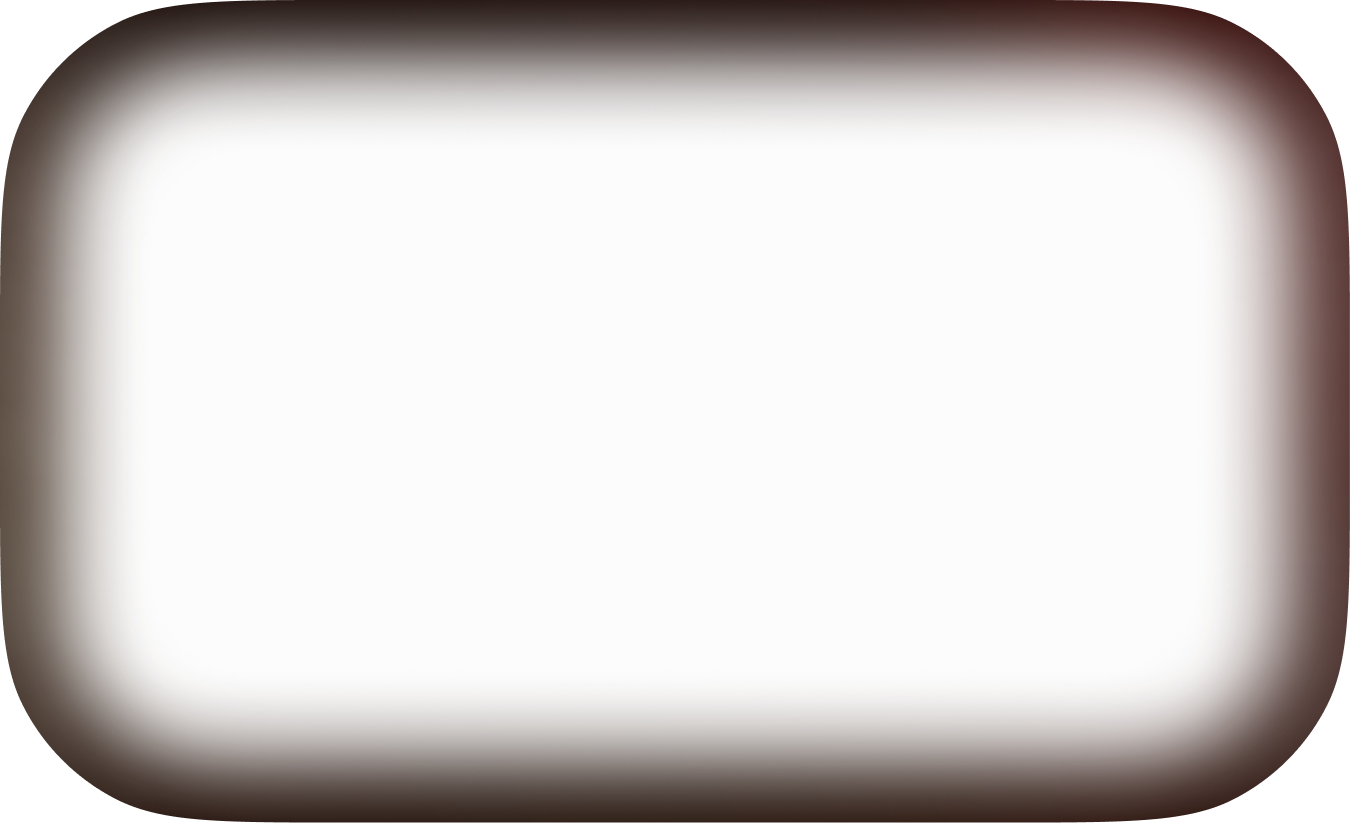
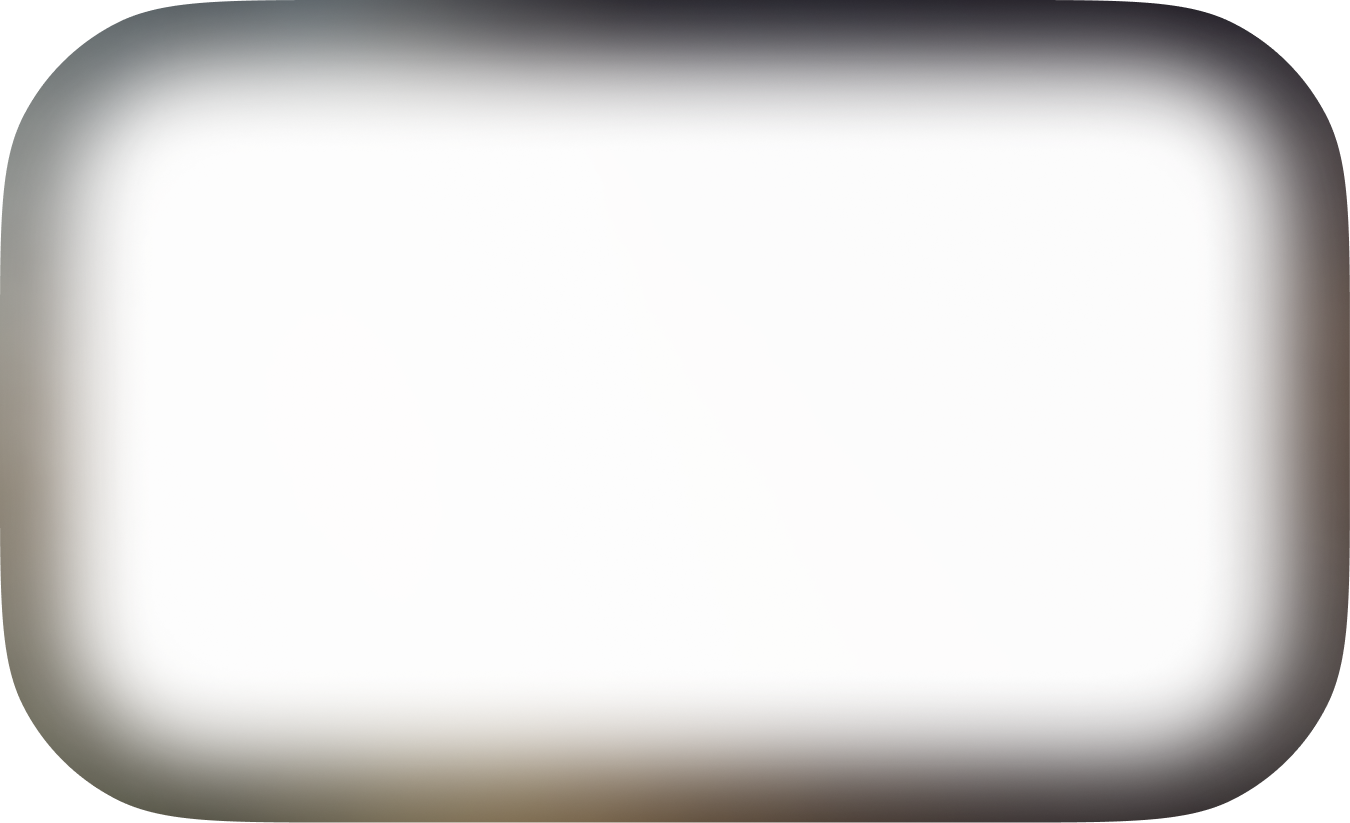
main page background change

Changed region(s): [[0.0, 0.0, 0.9333, 1.0], [0.9956, 0.3949, 1.0, 0.4253]]

diff --git a/src/views/main/MainLayoutView.vue b/src/views/main/MainLayoutView.vue
@@ -43,14 +43,7 @@ const backgroundStyle = computed(() => {
   }
 
   return {
-    backgroundImage:
-      route.meta.tabKey === 'home' ||
-      route.meta.tabKey === 'club' ||
-      route.meta.tabKey === 'message' ||
-      route.meta.tabKey === 'mine' ||
-      route.meta.tabKey === 'friendsTable'
-        ? `url(${mainBg2Url})`
-        : `url(${mainBgUrl})`,
+    backgroundImage: route.meta.tabKey === 'home' ? `url(${mainBg2Url})` : `url(${mainBgUrl})`,
   }
 })
 
@@ -210,34 +203,8 @@ watch(
     background-size: cover;
 
     &::before {
-      content: '';
-      position: absolute;
-      inset: 0;
-      background-color: rgba(0, 0, 0, 0.7);
-      mix-blend-mode: luminosity;
-      pointer-events: none;
-      z-index: 1;
+      display: none;
     }
-  }
-
-  &.is-home::before {
-    backdrop-filter: blur(1.5px);
-  }
-
-  &.is-club::before {
-    backdrop-filter: blur(6px);
-  }
-
-  &.is-message::before {
-    backdrop-filter: blur(1.5px);
-  }
-
-  &.is-mine::before {
-    backdrop-filter: blur(1.5px);
-  }
-
-  &.is-friends-table::before {
-    backdrop-filter: blur(6px);
   }
 }
 

diff --git a/src/views/club/ClubListView.vue b/src/views/club/ClubListView.vue
@@ -1070,9 +1070,9 @@ onMounted(() => {
     position: absolute;
     inset: -0.213rem;
     border-radius: 1.015rem;
-    border: 0.213rem solid rgba(60, 24, 13, 0.8);
-    background: #241108;
-    backdrop-filter: blur(0.446rem);
+    border: 0.02rem solid rgba(255, 255, 255, 0.16);
+    background: rgba(255, 255, 255, 0.05);
+    backdrop-filter: blur(0.5rem);
     pointer-events: none;
     z-index: 0;
 
@@ -1347,7 +1347,7 @@ onMounted(() => {
   width: 5.69rem;
   height: 0.917rem;
   border-radius: 0.4rem 0.4rem 0 0;
-  background: transparent;
+  background: rgba(0, 0, 0, 0.28);
   backdrop-filter: blur(0.446rem);
   bottom: -0.213rem;
   overflow: hidden;
@@ -1523,7 +1523,7 @@ onMounted(() => {
   border-radius: 4.22rem;
   border: 0.01rem solid rgba(242, 242, 242, 0.4);
   background: rgba(0, 0, 0, 0.08);
-  backdrop-filter: blur(1.631px);
+  backdrop-filter: blur(0.446rem);
   -webkit-backdrop-filter: blur(1.631px);
   box-shadow:
     inset 0px 0px 1.799px 0px black,
